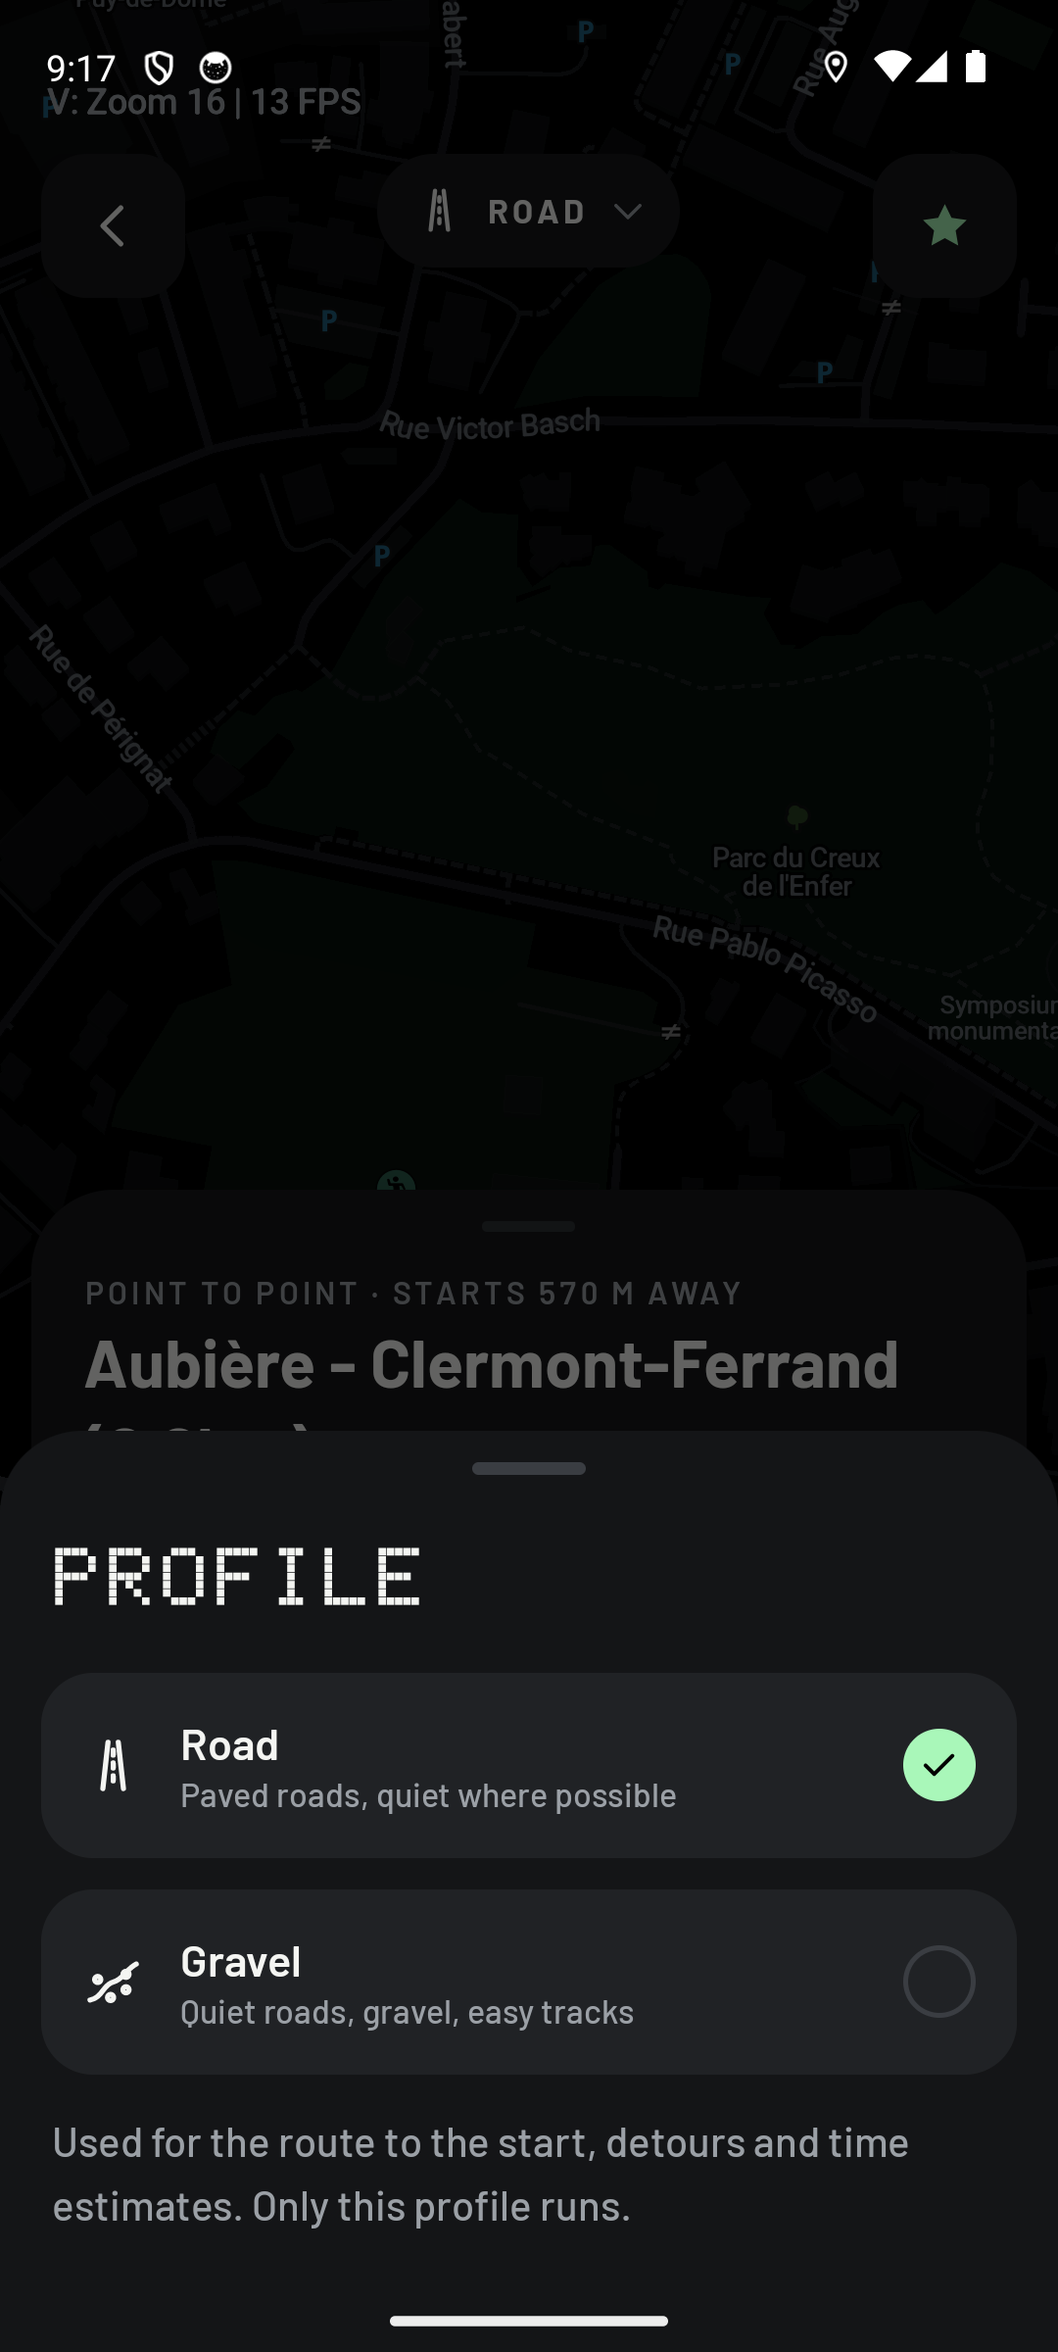
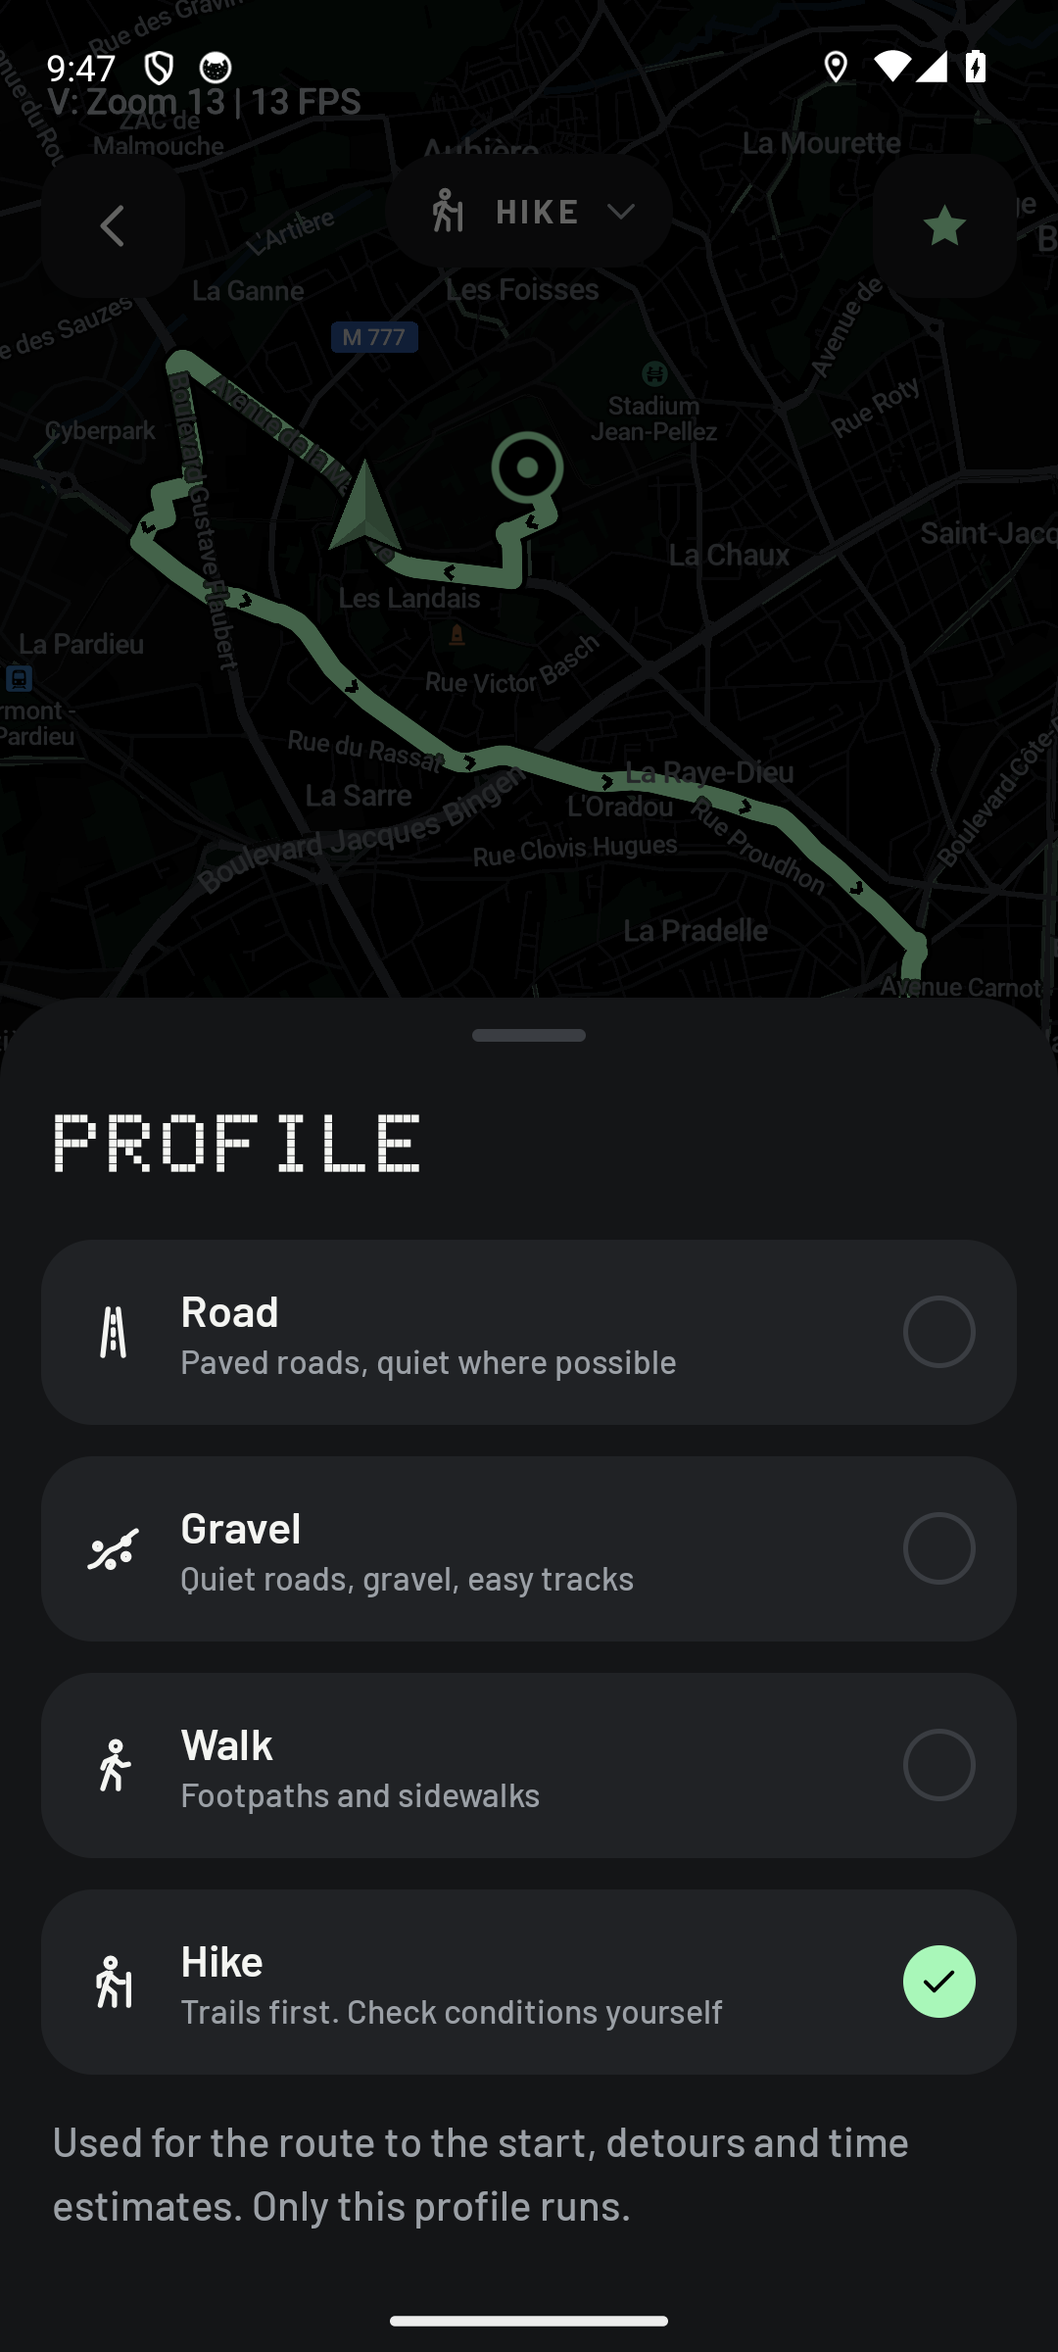
TZ phase 26: hiking profile (FEAT-013)
Hike builds the pedestrian model with trails first (big roads weighted
down) and halves the weight of the map's expert paths. The Hike preview
shows distance, climb and descent, the hiking time (max + half the min
of walking and climbing time), a caption without altitudes and a line
for demanding trail sections per the map. All four profiles are on.
D51.

diff --git a/android/app/src/main/java/app/trackzero/screens/TzPreviewScreen.java b/android/app/src/main/java/app/trackzero/screens/TzPreviewScreen.java
@@ -269,15 +269,30 @@ public class TzPreviewScreen extends TzScreen
       if (path == mPath)
         onSurfaces(p);
     });
+    if (mProfile == Profile.HIKE)
+      RouteSurfaces.demanding(requireContext(), line, demanding -> {
+        if (path == mPath && getView() != null && demanding)
+        {
+          TransitionManager.beginDelayedTransition(mCard, new ChangeBounds().setDuration(TzMotion.GROW_MS));
+          requireView().findViewById(R.id.tz_preview_demanding).setVisibility(View.VISIBLE);
+        }
+      });
   }
 
-  /** "Route by bike", or on foot with the walking time (Phase 25). */
+  /** "Route by bike", or on foot with the walking (Phase 25) or hiking (Phase 26) time. */
   @NonNull
   private String placeLabel(@NonNull RoutedPath path)
   {
     if (!mProfile.foot)
       return getString(R.string.tz_preview_to_place);
     final FollowRoute line = path.line;
+    if (mProfile == Profile.HIKE)
+    {
+      final double[] upDown = path.ele == null ? null : RouteStats.ascentDescent(path.ele);
+      return getString(R.string.tz_preview_hike, TzFormat.hoursMinutes(
+          FootTime.hikeSeconds(line.totalM(), upDown == null ? Double.NaN : upDown[0],
+                               upDown == null ? Double.NaN : upDown[1])));
+    }
     final double ascent = path.ele == null ? Double.NaN : RouteStats.compute(line.lats(), line.lons(), path.ele).gainM;
     return getString(R.string.tz_preview_on_foot,
                      TzFormat.hoursMinutes(FootTime.walkSeconds(line.totalM(), ascent)));
@@ -306,6 +321,7 @@ public class TzPreviewScreen extends TzScreen
     final View v = requireView();
     v.findViewById(R.id.tz_preview_surfaces).setVisibility(View.GONE);
     v.findViewById(R.id.tz_preview_surfaces_none).setVisibility(View.GONE);
+    v.findViewById(R.id.tz_preview_demanding).setVisibility(View.GONE);
   }
 
   @Override
@@ -347,6 +363,14 @@ public class TzPreviewScreen extends TzScreen
     final TzMetricView stat2 = v.findViewById(R.id.tz_preview_stat2);
     final TzElevationProfileView profile = v.findViewById(R.id.tz_preview_profile);
     final RoutedPath path = mPath;
+    // A hike shows what it climbs and descends (D+, D−); the others gain and high point.
+    final boolean hike = mProfile == Profile.HIKE;
+    ((TextView) v.findViewById(R.id.tz_preview_stat1_label)).setText(hike ? R.string.tz_preview_climb
+                                                                           : R.string.tz_preview_gain);
+    ((TextView) v.findViewById(R.id.tz_preview_stat2_label)).setText(hike ? R.string.tz_preview_descent
+                                                                           : R.string.tz_preview_high);
+    v.findViewById(R.id.tz_preview_ele_note).setVisibility(hike && path != null && path.ele == null ? View.VISIBLE
+                                                                                                     : View.GONE);
     if (path == null)
     {
       stat0.setValue(TzFormat.UNKNOWN, "");
@@ -367,7 +391,18 @@ public class TzPreviewScreen extends TzScreen
       final RouteStats stats = RouteStats.compute(line.lats(), line.lons(), path.ele);
       final TzFormat.Value gain = TzFormat.elevation(stats.gainM, units, locale);
       stat1.setValue(gain);
-      stat2.setValue(TzFormat.elevation(stats.highM, units, locale));
+      if (hike)
+      {
+        final double[] upDown = RouteStats.ascentDescent(path.ele);
+        if (upDown == null)
+          stat2.setValue(TzFormat.UNKNOWN, "");
+        else
+          stat2.setValue(TzFormat.elevation(upDown[1], units, locale));
+      }
+      else
+      {
+        stat2.setValue(TzFormat.elevation(stats.highM, units, locale));
+      }
       peek += " · " + gain;
       final double[] d = line.distances();
       final float[] pd = new float[d.length];

diff --git a/libs/routing_common/pedestrian_model.cpp b/libs/routing_common/pedestrian_model.cpp
@@ -1,4 +1,5 @@
 #include "routing_common/pedestrian_model.hpp"
+#include "routing_common/tz_profile.hpp"
 
 #include "indexer/classificator.hpp"
 
@@ -141,6 +142,33 @@ VehicleModel::SurfaceInitList const kPedestrianSurface = {
     // no dedicated sidewalk, doesn't mean that foot is not allowed, just lower weight
     {{"hwtag", "nosidewalk"}, {0.8, 0.8}},
 };
+
+// TrackZero (Phase 26): Hike takes trails first. Applied on top of a country model's own speeds. The base model keeps
+// a reference to its factors: a table for the life of the process.
+HighwayBasedFactors const & TzProfileFactors(TzProfile profile)
+{
+  static HighwayBasedFactors const kHike = []
+  {
+    auto f = kDefaultFactors;
+    auto const set = [&f](std::initializer_list<HighwayType> types, double factor)
+    {
+      for (auto t : types)
+        f.at(t) = InOutCityFactor(factor);
+    };
+    set({HighwayType::HighwayTrunk, HighwayType::HighwayTrunkLink}, 0.3);
+    set({HighwayType::HighwayPrimary, HighwayType::HighwayPrimaryLink}, 0.4);
+    set({HighwayType::HighwaySecondary, HighwayType::HighwaySecondaryLink}, 0.5);
+    set({HighwayType::HighwayTertiary, HighwayType::HighwayTertiaryLink}, 0.7);
+    set({HighwayType::HighwayResidential, HighwayType::HighwayUnclassified, HighwayType::HighwayService,
+         HighwayType::HighwayLivingStreet},
+        0.8);
+    return f;
+  }();
+  return profile == TzProfile::Hike ? kHike : kDefaultFactors;
+}
+
+// Expert (alpine) paths, per the map, weigh half on a hike: used only when there is no reasonable alternative.
+double constexpr kHikeExpertFactor = 0.5;
 }  // namespace pedestrian_model
 
 namespace routing
@@ -152,7 +180,11 @@ PedestrianModel::PedestrianModel(VehicleModel::LimitsInitList const & limits)
 {}
 
 PedestrianModel::PedestrianModel(VehicleModel::LimitsInitList const & limits, HighwayBasedSpeeds const & speeds)
-  : VehicleModel(classif(), limits, pedestrian_model::kPedestrianSurface, {speeds, pedestrian_model::kDefaultFactors})
+  // TrackZero: Hike's factors when the router is being built for it (Phase 26).
+  : VehicleModel(classif(), limits, pedestrian_model::kPedestrianSurface,
+                 {speeds, pedestrian_model::TzProfileFactors(GetTzProfile())})
+  , m_hike(GetTzProfile() == TzProfile::Hike)
+  , m_expertPathType(classif().GetTypeByPath({"highway", "path", "expert"}))
 {
   using namespace pedestrian_model;
 
@@ -175,7 +207,11 @@ PedestrianModel::PedestrianModel(VehicleModel::LimitsInitList const & limits, Hi
 
 SpeedKMpH PedestrianModel::GetSpeed(FeatureTypes const & types, SpeedParams const & speedParams) const
 {
-  return GetTypeSpeedImpl(types, speedParams, false /* isCar */);
+  SpeedKMpH speed = GetTypeSpeedImpl(types, speedParams, false /* isCar */);
+  // TrackZero (Phase 26): the base model sees highway|path|expert as a path; a hike avoids it where it can.
+  if (m_hike && types.Has(m_expertPathType))
+    speed.m_weight *= pedestrian_model::kHikeExpertFactor;
+  return speed;
 }
 
 SpeedKMpH const & PedestrianModel::GetOffroadSpeed() const

diff --git a/android/app/src/main/java/app/trackzero/routes/ProfileCompare.java b/android/app/src/main/java/app/trackzero/routes/ProfileCompare.java
@@ -36,6 +36,10 @@ public final class ProfileCompare
       // One-way westwards with cycling both ways (oneway:bicycle=no, OSM way 4080952), 300 m: against the one-way,
       // the path should be the street itself, not a detour (plan v2 24.5).
       {"Contraflow: Rue Rameau eastwards", 45.7755983, 3.0752260, 45.7758832, 3.0790987},
+      // Phase 26: a hike should take a trail up the Puy de Dome (the Chemin des Muletiers or another), a walk between
+      // two addresses in town should stay on streets.
+      {"Orcines - Puy de Dome summit", 45.7833, 3.0128, 45.7722, 2.9643},
+      {"Place de Jaude - Gare de Clermont", 45.7772, 3.0820, 45.7786, 3.1006},
   };
   /** The profiles switched on, in the sheet's order. */
   private static final Profile[] PROFILES = Profile.available().toArray(new Profile[0]);
@@ -49,7 +53,7 @@ public final class ProfileCompare
   public static void run(@NonNull Context context, @NonNull Runnable done)
   {
     log("trip | profile | km | D+ m | paved/poor/gravel/rough/none % | none/trunk/primary/secondary/tertiary/minor/"
-        + "track/path %");
+        + "track/path % | demanding %");
     next(context.getApplicationContext(), 0, done);
   }
 
@@ -95,6 +99,10 @@ public final class ProfileCompare
       lon[i] = line.lonAt(at);
     }
     final int[] classes = TzRoads.classes(lat, lon);
+    int demanding = 0;
+    for (int d : TzRoads.difficulty(lat, lon))
+      if (d == 1)
+        demanding++;
     final int[] count = new int[CLASSES.length];
     for (int c : classes)
       count[Math.max(0, c)]++;
@@ -107,6 +115,7 @@ public final class ProfileCompare
     sb.append(" |");
     for (int c : count)
       sb.append(' ').append(Math.round(100.0 * c / n));
+    sb.append(" | ").append(Math.round(100.0 * demanding / n));
     return sb.toString();
   }
 

diff --git a/android/sdk/src/main/cpp/app/organicmaps/sdk/Framework.cpp b/android/sdk/src/main/cpp/app/organicmaps/sdk/Framework.cpp
@@ -1163,6 +1163,18 @@ JNIEXPORT jintArray JNICALL Java_app_organicmaps_sdk_Framework_nativeRoadSurface
   });
 }
 
+// TrackZero (Phase 26): whether the closest way within radiusM is a demanding trail per the map: -1 no map, 0 not (or
+// no way), 1 a path the map grades difficult or expert (from sac_scale and trail_visibility).
+JNIEXPORT jintArray JNICALL Java_app_organicmaps_sdk_Framework_nativeRoadDifficulty(JNIEnv * env, jclass,
+                                                                                   jdoubleArray lats, jdoubleArray lons,
+                                                                                   jdouble radiusM)
+{
+  static uint32_t const kDifficult = classif().GetTypeByPath({"highway", "path", "difficult"});
+  static uint32_t const kExpert = classif().GetTypeByPath({"highway", "path", "expert"});
+  return ClosestRoadCodes(env, lats, lons, radiusM, [](feature::TypesHolder const & types)
+  { return types.Has(kDifficult) || types.Has(kExpert) ? 1 : 0; });
+}
+
 // TrackZero (Phase 24, the profile comparison): the class of the closest road within radiusM of each point: -1 no
 // map, 0 no road, 1 motorway or trunk, 2 primary, 3 secondary, 4 tertiary, 5 minor road (unclassified, residential,
 // living street, service, road), 6 track, 7 path, cycleway, bridleway, footway, pedestrian street or steps.

diff --git a/android/app/src/main/java/app/trackzero/routes/FootTime.java b/android/app/src/main/java/app/trackzero/routes/FootTime.java
@@ -2,7 +2,7 @@ package app.trackzero.routes;
 
 import app.trackzero.TzConfig;
 
-/** How long a path takes on foot (Phase 25): walking speed plus the climbing. Pure. */
+/** How long a path takes on foot: walking (Phase 25) and hiking (Phase 26). Pure. */
 public final class FootTime
 {
   /** An hour more for every this many metres climbed. */
@@ -16,5 +16,18 @@ public final class FootTime
     final double hours = distanceM / 1000 / TzConfig.ETA_FALLBACK_FOOT_KMH
                          + (Double.isNaN(ascentM) ? 0 : Math.max(0, ascentM) / CLIMB_M_PER_HOUR);
     return Math.round(hours * 3600);
+  }
+
+  /**
+   * Seconds to hike {@code distanceM} climbing {@code ascentM} and descending {@code descentM} (NaN: no altitudes,
+   * distance only): the longer of the walking and the climbing time, plus half the shorter. Walking 4 km/h; 300 m an
+   * hour up, 500 m an hour down.
+   */
+  public static long hikeSeconds(double distanceM, double ascentM, double descentM)
+  {
+    final double th = distanceM / 1000 / 4;
+    final double tv = Double.isNaN(ascentM) || Double.isNaN(descentM)
+                      ? 0 : Math.max(0, ascentM) / 300 + Math.max(0, descentM) / 500;
+    return Math.round((Math.max(th, tv) + Math.min(th, tv) / 2) * 3600);
   }
 }

diff --git a/android/app/src/main/java/app/trackzero/routes/RouteSurfaces.java b/android/app/src/main/java/app/trackzero/routes/RouteSurfaces.java
@@ -62,6 +62,36 @@ public final class RouteSurfaces
     }, callback);
   }
 
+  /**
+   * Whether a path crosses demanding trail sections per the map (a hike, Phase 26): delivered on the main thread,
+   * false before the maps load.
+   */
+  public static void demanding(@NonNull Context context, @NonNull FollowRoute line,
+                               @NonNull TzIo.Callback<Boolean> callback)
+  {
+    if (!TzRoads.ready(context))
+    {
+      callback.onResult(false);
+      return;
+    }
+    TzIo.submit(() -> {
+      final double step = SurfaceProfile.step(line.totalM());
+      final int n = SurfaceProfile.samples(line.totalM(), step);
+      final double[] lat = new double[n];
+      final double[] lon = new double[n];
+      for (int i = 0; i < n; i++)
+      {
+        final double at = SurfaceProfile.at(i, line.totalM(), step);
+        lat[i] = line.latAt(at);
+        lon[i] = line.lonAt(at);
+      }
+      for (int c : TzRoads.difficulty(lat, lon))
+        if (c == 1)
+          return true;
+      return false;
+    }, callback);
+  }
+
   /** {@link SurfaceProfile} of cached codes. */
   @Nullable
   static SurfaceProfile of(@NonNull RouteGeometry g, double lengthM)

diff --git a/android/app/src/test/java/app/trackzero/routes/RouteStatsTest.java b/android/app/src/test/java/app/trackzero/routes/RouteStatsTest.java
@@ -11,6 +11,28 @@ import static org.junit.Assert.*;
 public class RouteStatsTest
 {
   @Test
+  public void ascentAndDescent()
+  {
+    // Up 100 m, down 60 m, in 10 m steps (smoothing keeps a plateau's level).
+    final double[] ele = new double[41];
+    for (int i = 0; i <= 10; i++)
+      ele[i] = 400 + 10 * i;
+    for (int i = 11; i <= 20; i++)
+      ele[i] = 500;
+    for (int i = 21; i <= 26; i++)
+      ele[i] = 500 - 10 * (i - 20);
+    for (int i = 27; i <= 40; i++)
+      ele[i] = 440;
+    final double[] upDown = RouteStats.ascentDescent(ele);
+    org.junit.Assert.assertNotNull(upDown);
+    // The same smoothing as the gain: the edges of a short climb are rounded off a little.
+    assertEquals(100, upDown[0], 15);
+    assertEquals(60, upDown[1], 15);
+    org.junit.Assert.assertTrue(upDown[0] > upDown[1]);
+    org.junit.Assert.assertNull(RouteStats.ascentDescent(new double[] {Double.NaN, Double.NaN}));
+  }
+
+  @Test
   public void measuresParisToLondon()
   {
     double[] lat = {48.8566, 51.5074}, lon = {2.3522, -0.1278};

diff --git a/android/app/src/main/java/app/trackzero/routes/RouteStats.java b/android/app/src/main/java/app/trackzero/routes/RouteStats.java
@@ -1,5 +1,6 @@
 package app.trackzero.routes;
 
+import androidx.annotation.NonNull;
 import androidx.annotation.Nullable;
 
 import app.trackzero.TzConfig;
@@ -117,6 +118,20 @@ public final class RouteStats
       smoothed[i] = sum / (end - start + 1);
     }
     return smoothed;
+  }
+
+  /** Up and down along {@code ele} (smoothed, with the gain's hysteresis), metres; null without enough altitudes. */
+  @Nullable
+  public static double[] ascentDescent(@NonNull double[] ele)
+  {
+    final double[] smoothed = smoothedElevation(ele);
+    if (smoothed == null)
+      return null;
+    final double[] reversed = new double[smoothed.length];
+    for (int i = 0; i < smoothed.length; i++)
+      reversed[i] = smoothed[smoothed.length - 1 - i];
+    // Going down is going up backwards.
+    return new double[] {gain(smoothed, TzConfig.ELE_HYSTERESIS_M), gain(reversed, TzConfig.ELE_HYSTERESIS_M)};
   }
 
   static double gain(double[] smoothed, double hysteresisM)

diff --git a/android/app/src/main/java/app/trackzero/ride/TzRide.java b/android/app/src/main/java/app/trackzero/ride/TzRide.java
@@ -38,7 +38,9 @@ public final class TzRide
       final Profile profile = TzPrefs.profile(activity);
       final String date = DateFormat.getDateInstance(DateFormat.MEDIUM).format(new Date());
       final String name = route != null ? route.name
-                          : activity.getString(profile.foot ? R.string.tz_free_walk_name : R.string.tz_free_ride_name,
+                          : activity.getString(profile == Profile.HIKE ? R.string.tz_free_hike_name
+                                               : profile.foot ? R.string.tz_free_walk_name
+                                                              : R.string.tz_free_ride_name,
                                                date);
       TzRideService.start(activity, route == null ? null : route.id, name, profile);
       TzNavigator.show(TzNavigator.Screen.RIDE, null);

diff --git a/android/app/src/test/java/app/trackzero/routes/FootTimeTest.java b/android/app/src/test/java/app/trackzero/routes/FootTimeTest.java
@@ -14,4 +14,17 @@ public class FootTimeTest
     assertEquals(3600, FootTime.walkSeconds(4800, Double.NaN)); // No altitudes: distance only.
     assertEquals(0, FootTime.walkSeconds(0, 0));
   }
+
+  @Test
+  public void hikingTime()
+  {
+    // 12 km (3 h walking), 600 m up and 500 m down (3 h climbing): 3 + 3 / 2 = 4.5 h.
+    assertEquals(Math.round(4.5 * 3600), FootTime.hikeSeconds(12_000, 600, 500));
+    // Flat 8 km: 2 h, no climbing.
+    assertEquals(2 * 3600, FootTime.hikeSeconds(8000, 0, 0));
+    // Steep and short: 2 km (0.5 h), 900 m up (3 h): 3 + 0.25.
+    assertEquals(Math.round(3.25 * 3600), FootTime.hikeSeconds(2000, 900, 0));
+    // No altitudes: distance only.
+    assertEquals(2 * 3600, FootTime.hikeSeconds(8000, Double.NaN, Double.NaN));
+  }
 }

diff --git a/android/sdk/src/main/java/app/organicmaps/sdk/Framework.java b/android/sdk/src/main/java/app/organicmaps/sdk/Framework.java
@@ -147,6 +147,11 @@ public class Framework
   @NonNull
   public static native int[] nativeRoadSurfaces(double[] lat, double[] lon, double radiusM);
 
+  /// TrackZero (Phase 26): per point, 1 if the closest way within radiusM is a path the map grades difficult or expert,
+  /// 0 if not, -1 without a map. Safe off the main thread.
+  @NonNull
+  public static native int[] nativeRoadDifficulty(double[] lat, double[] lon, double radiusM);
+
   /// TrackZero (profile comparison): per point, the class of the closest road within radiusM: -1 no map, 0 no road,
   /// 1 motorway/trunk, 2 primary, 3 secondary, 4 tertiary, 5 minor road, 6 track, 7 path and the like.
   @NonNull

diff --git a/android/app/src/main/java/app/trackzero/base/TzRoads.java b/android/app/src/main/java/app/trackzero/base/TzRoads.java
@@ -43,6 +43,13 @@ public final class TzRoads
     return Framework.nativeRoadSurfaces(lat, lon, SURFACE_RADIUS_M);
   }
 
+  /** Per point, 1 on a demanding trail per the map (difficult or expert path), 0 not, -1 no map. Blocking, ready. */
+  @NonNull
+  public static int[] difficulty(@NonNull double[] lat, @NonNull double[] lon)
+  {
+    return Framework.nativeRoadDifficulty(lat, lon, SURFACE_RADIUS_M);
+  }
+
   /**
    * Per point, the class of the road there (the profile comparison, Phase 24): -1 no map, 0 no road, 1 motorway or
    * trunk, 2 primary, 3 secondary, 4 tertiary, 5 minor road, 6 track, 7 path and the like. Blocking, once ready.
